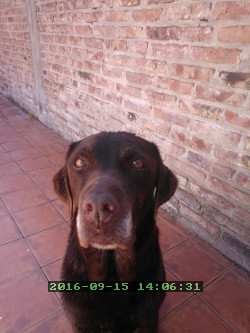
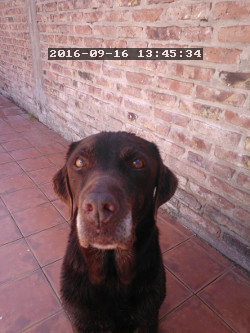
commented demo

diff --git a/font8x8render.py b/font8x8render.py
@@ -76,8 +76,14 @@ def annotate_img(img, text, x=8, y=8, dir="horiz",
   i=0
   while i<len(text):
 
-    c=text[i:i+1]
-    bitmap = select_set(ord(c))
+    ucod=ord(text[i:i+1])
+      
+    # ignore spaces at line beginning 
+    if ucod==32 and ((dx==0 and not vert) or (dy==0 and vert)):
+      text=text[0:i]+text[i+1:]
+      continue
+
+    bitmap = select_set(ucod)
 
     # Draw a character
     for py in range(0, 8 if vert else 9 ):
@@ -108,7 +114,7 @@ def annotate_img(img, text, x=8, y=8, dir="horiz",
 
     if vert:
       dy+=kern*zoom
-      if y+dy+kern*zoom>=img.shape[0]:
+      if y+dy+kern*zoom>=img.shape[0]-kern*zoom/2:
         dx-=(kern+1)*zoom
         dy=0
         maxline=currline
@@ -117,7 +123,7 @@ def annotate_img(img, text, x=8, y=8, dir="horiz",
         currline+=1
     else:
       dx+=kern*zoom
-      if x+dx+kern*zoom>=img.shape[1]:
+      if x+dx+kern*zoom>=img.shape[1]-kern*zoom/2:
         dy+=(kern+1)*zoom
         dx=0
         maxline=currline
@@ -132,7 +138,7 @@ def annotate_img(img, text, x=8, y=8, dir="horiz",
     i+=1
 
   
-  # complete borders around bounding box  
+  # draw a border to improve appearence of background 
   if box!="none":
     l=xmin-2*zoom
     r=xmax+2*zoom

diff --git a/demo_img.py b/demo_img.py
@@ -13,11 +13,25 @@ import datetime
 import font8x8render
 
 plt.ion()
-img = plt.imread('demo_orig.jpg')
+img = plt.imread('demo_0_original.jpg')
 
-text="BARK BARK BARK! BARK bark! bark bark bark bark!"
-font8x8render.annotate_img(img, text, x=90, y=-100, color=[0,0,0], alpha=0.5,
-                             box="white", zoom=1)#, dir="vert")
+
+# demo 1: simple, horizontal, red
+#text="ABCDEFGHIJKLMNOPQRSTUVWXYZabcdefghijklmnopqrstuvwxyz0123456789"
+#font8x8render.annotate_img(img, text, x=30, y=60, color=[255,0,0])
+
+# demo 2: from right margin, vertical, zoom 2x, transparency
+#text="ABCDEFGHIJKLMNOPQRSTUVWXYZabcdefghijklmnopqrstuvwxyz0123456789"
+#font8x8render.annotate_img(img, text, x=-30, y=15, color=[0,255,0],
+#                              zoom=2, dir="vert", alpha=0.5)
+
+# demo 3: timestamp with background box
+text=datetime.date.today().strftime("%Y-%m-%d")+" "+ \
+     datetime.datetime.now().time().strftime("%H:%M:%S")
+font8x8render.annotate_img(img, text, x=50, y=50,
+      color=[255,255,255], alpha=0.6, zoom=1, box="black")
+
+
 
 plt.imshow(img)
 plt.show()

diff --git a/README.md b/README.md
@@ -1,7 +1,7 @@
 
 ##font8x8render
 
-Simple python program for annotate images using 8x8 bitmap font
+Simple utility for annotating images, using 8x8 bitmap font
 
 Author: Dario Albertocchi
 License: Public Domain
@@ -23,7 +23,7 @@ font8x8render.annotate_img(img, text,
 ![Anu with timestamp](https://raw.githubusercontent.com/dariox2/font8x8render/master/demo_annotated.png)
 
 
-See full example included, demo_img.py.
+See included example demo_img.py for more details.
 
 
 A console renderer is also included to check 
